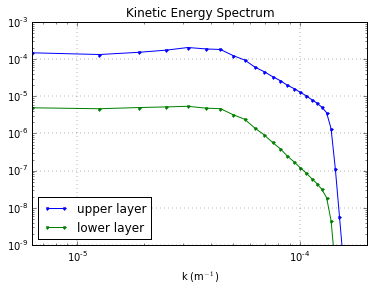
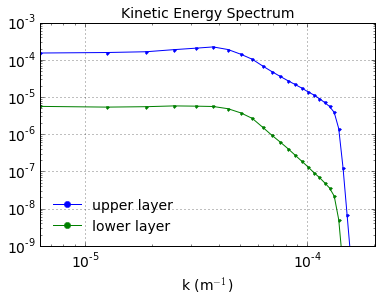
Fixes diagnostics sign in example

diff --git a/docs/examples/two-layer.rst b/docs/examples/two-layer.rst
@@ -14,6 +14,20 @@ First import numpy, matplotlib, and pyqg:
     %matplotlib inline
     import pyqg
 
+
+.. parsed-literal::
+
+    Vendor:  Continuum Analytics, Inc.
+    Package: mkl
+    Message: trial mode expires in 19 days
+    Vendor:  Continuum Analytics, Inc.
+    Package: mkl
+    Message: trial mode expires in 19 days
+    Vendor:  Continuum Analytics, Inc.
+    Package: mkl
+    Message: trial mode expires in 19 days
+
+
 Initialize and Run the Model
 ----------------------------
 
@@ -30,10 +44,10 @@ keyword arguments but we are just using the defaults.
 
 .. parsed-literal::
 
-    t=        72000000, tc=     10000: cfl=0.081583, ke=0.000301118
-    t=       144000000, tc=     20000: cfl=0.105460, ke=0.000515485
-    t=       216000000, tc=     30000: cfl=0.087645, ke=0.000458610
-    t=       288000000, tc=     40000: cfl=0.082984, ke=0.000541443
+    t=        72000000, tc=     10000: cfl=0.105787, ke=0.000565075
+    t=       144000000, tc=     20000: cfl=0.092474, ke=0.000471924
+    t=       216000000, tc=     30000: cfl=0.104418, ke=0.000525463
+    t=       288000000, tc=     40000: cfl=0.089834, ke=0.000502072
 
 
 Visualize Output
@@ -106,9 +120,9 @@ We can also plot the spectral fluxes of energy.
 
 .. code:: python
 
-    ebud = [ -m.get_diagnostic('APEgenspec').sum(axis=0),
-             -m.get_diagnostic('APEflux').sum(axis=0),
-             -m.get_diagnostic('KEflux').sum(axis=0),
+    ebud = [ m.get_diagnostic('APEgenspec').sum(axis=0),
+             m.get_diagnostic('APEflux').sum(axis=0),
+             m.get_diagnostic('KEflux').sum(axis=0),
              -m.rek*m.del2*m.get_diagnostic('KEspec')[1].sum(axis=0)*m.M**2 ]
     ebud.append(-np.vstack(ebud).sum(axis=0))
     ebud_labels = ['APE gen','APE flux','KE flux','Diss.','Resid.']
